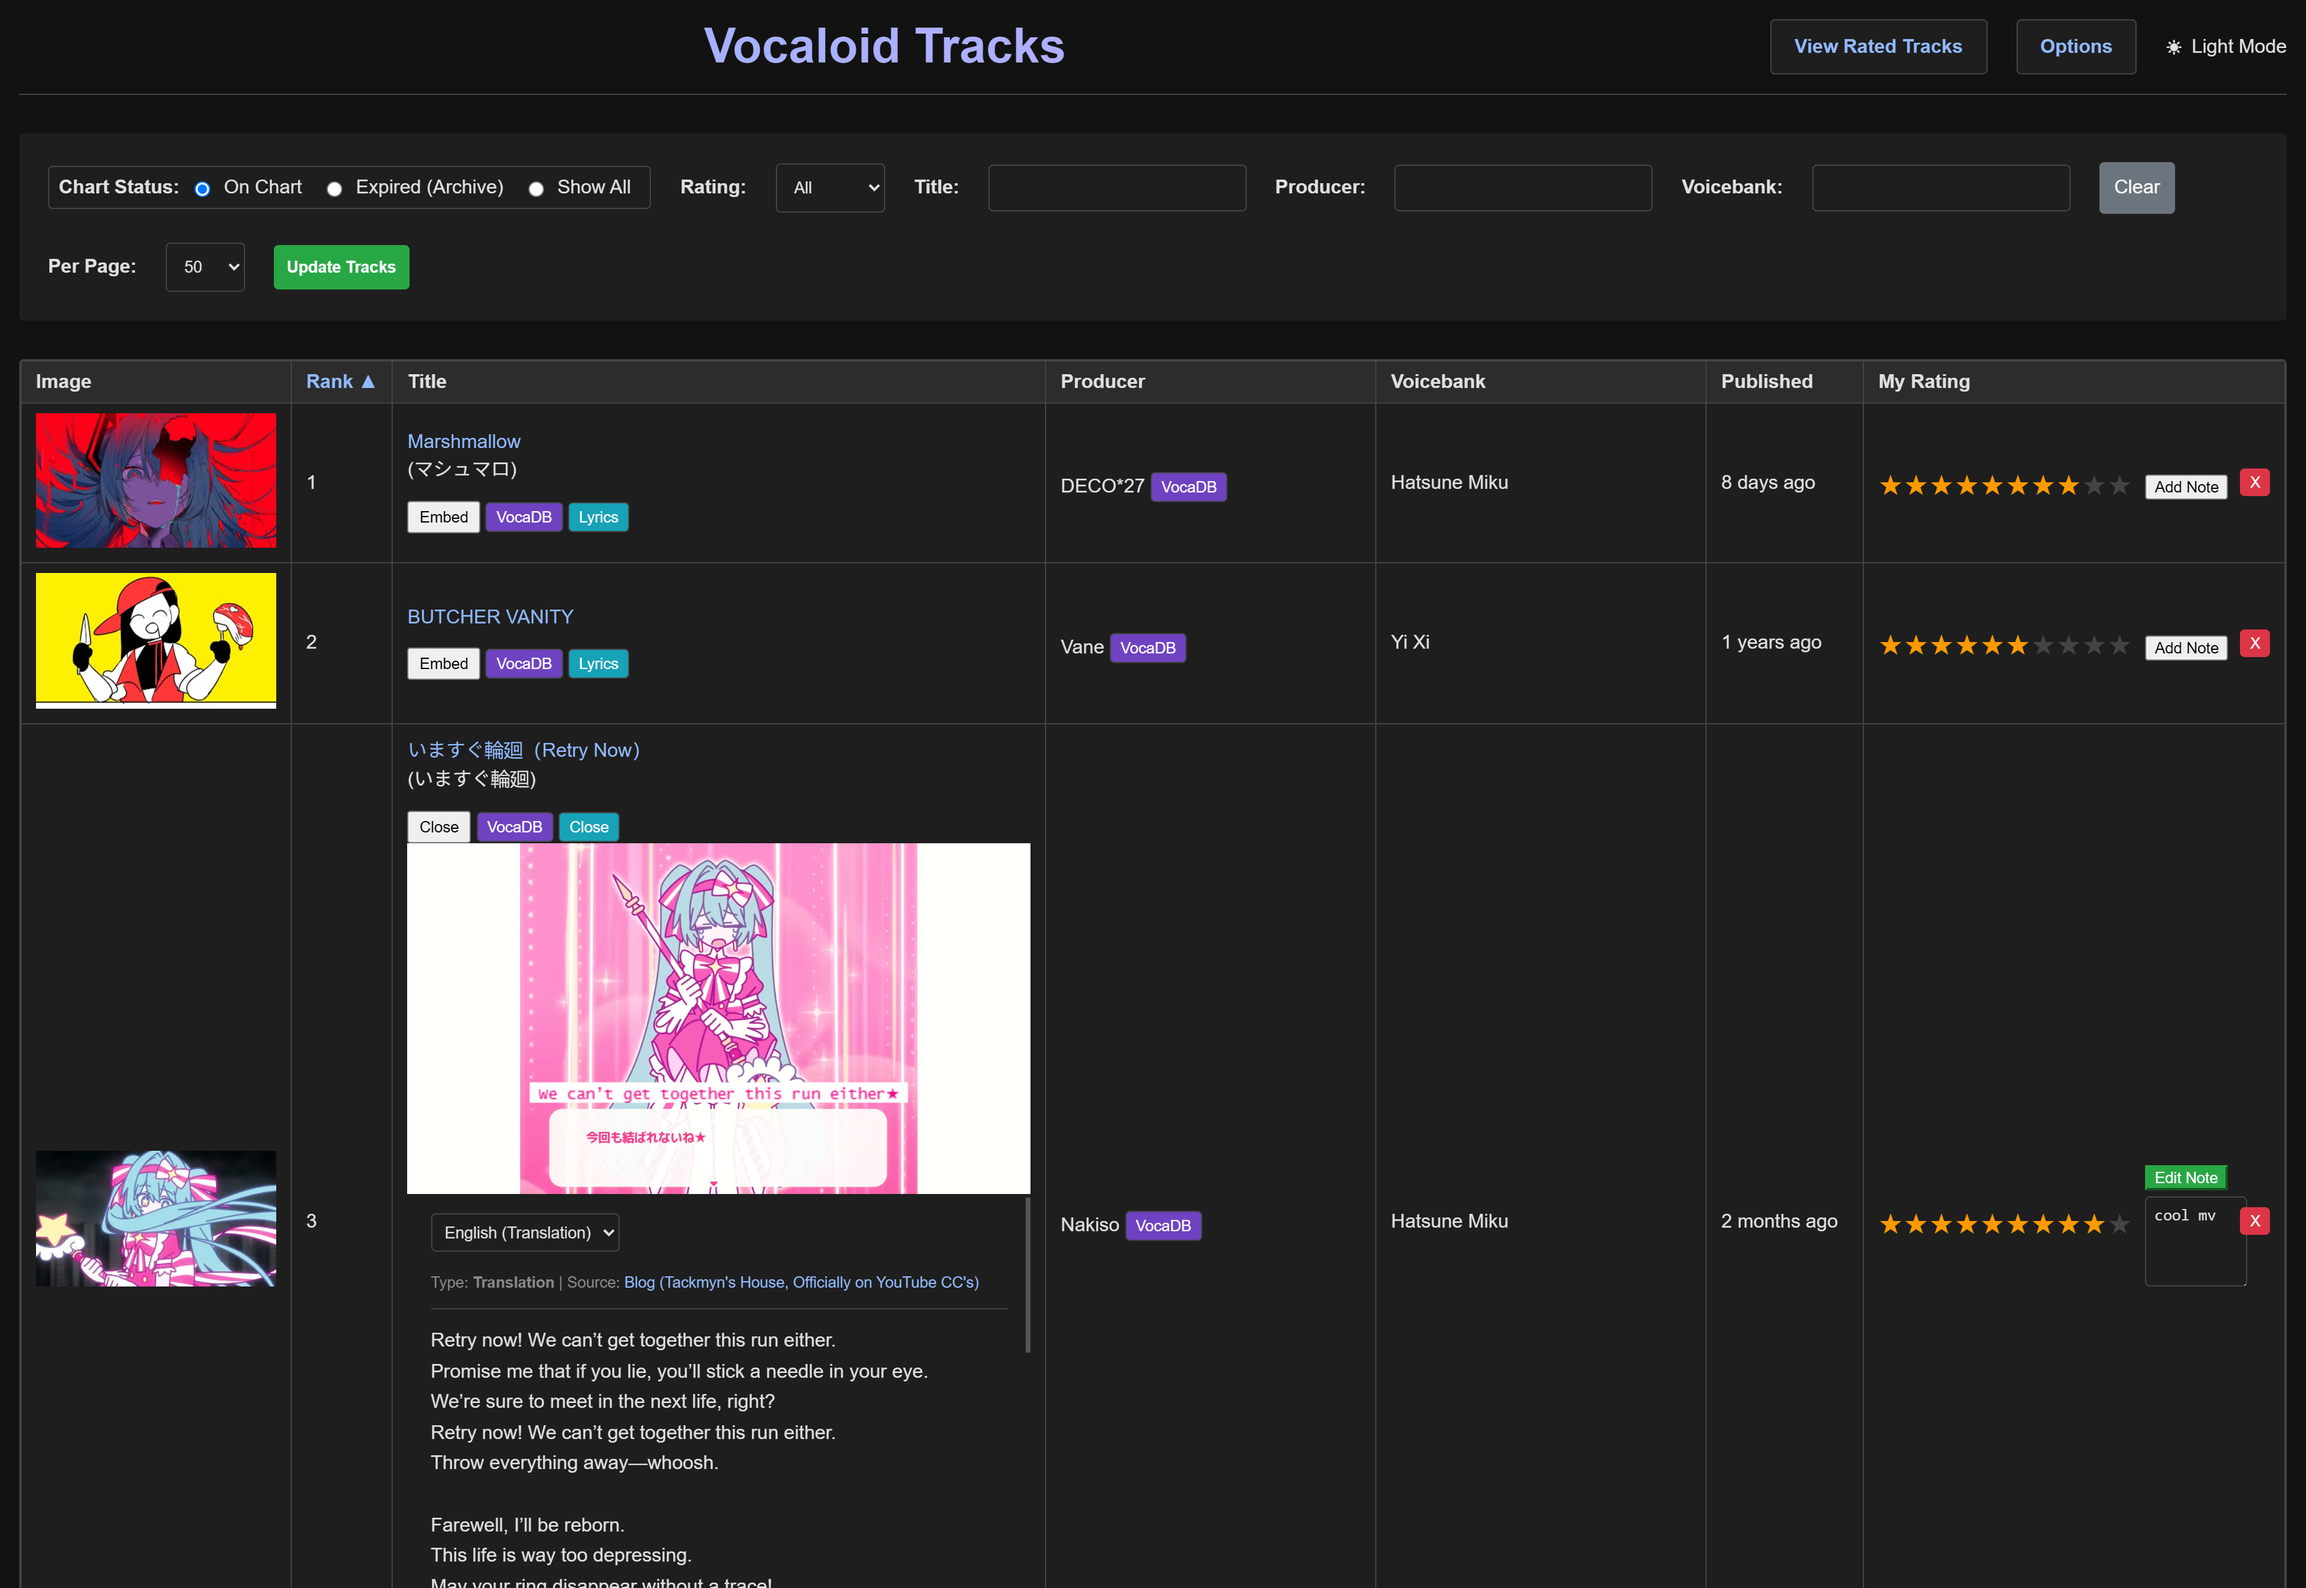
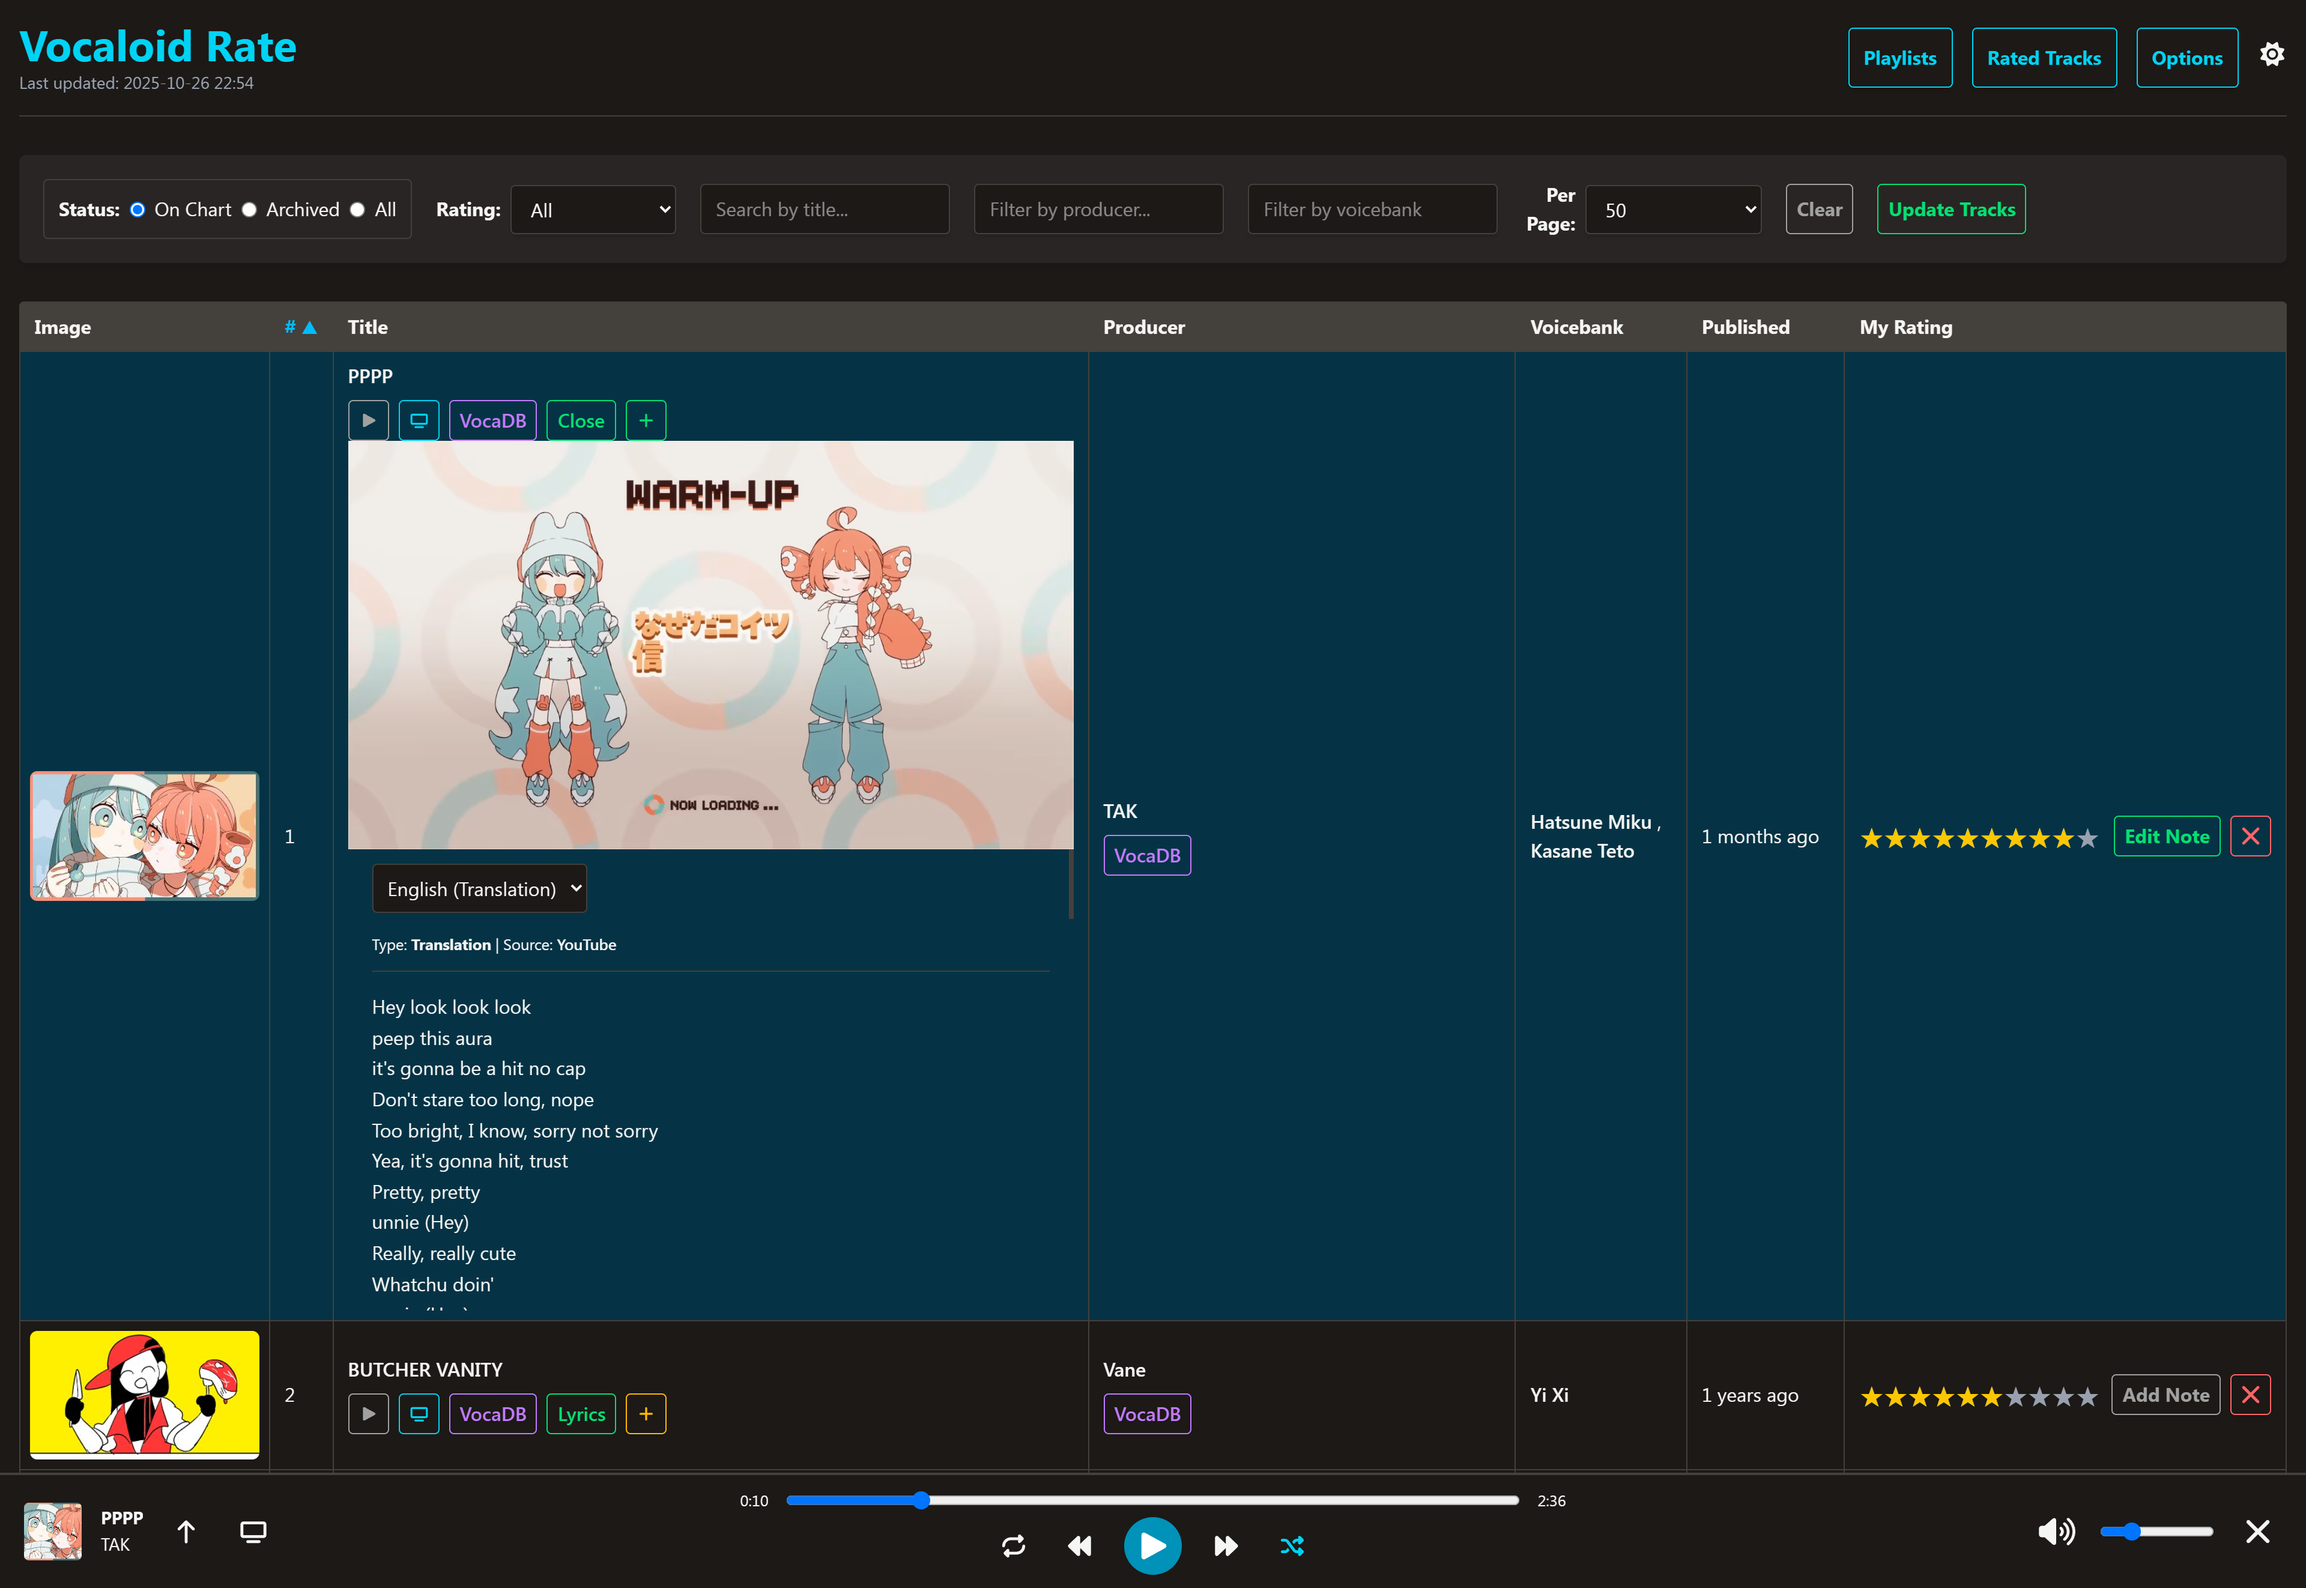
docs(screenshots): update/add new preview screenshots

diff --git a/README.md b/README.md
@@ -48,6 +48,18 @@ The application is built with a Python backend using FastAPI and a dynamic vanil
 
 ![Options Mode](assets/options.png)
 
+### Playlists
+
+![Playlist List View](assets/playlists.png)
+
+### Playlist Editor
+
+![Playlist Edit View](assets/playlist-edit.png)
+
+### Mobile UI
+
+![Mobile View](assets/mobile.png)
+
 </details>
 
 ## Tech Stack
